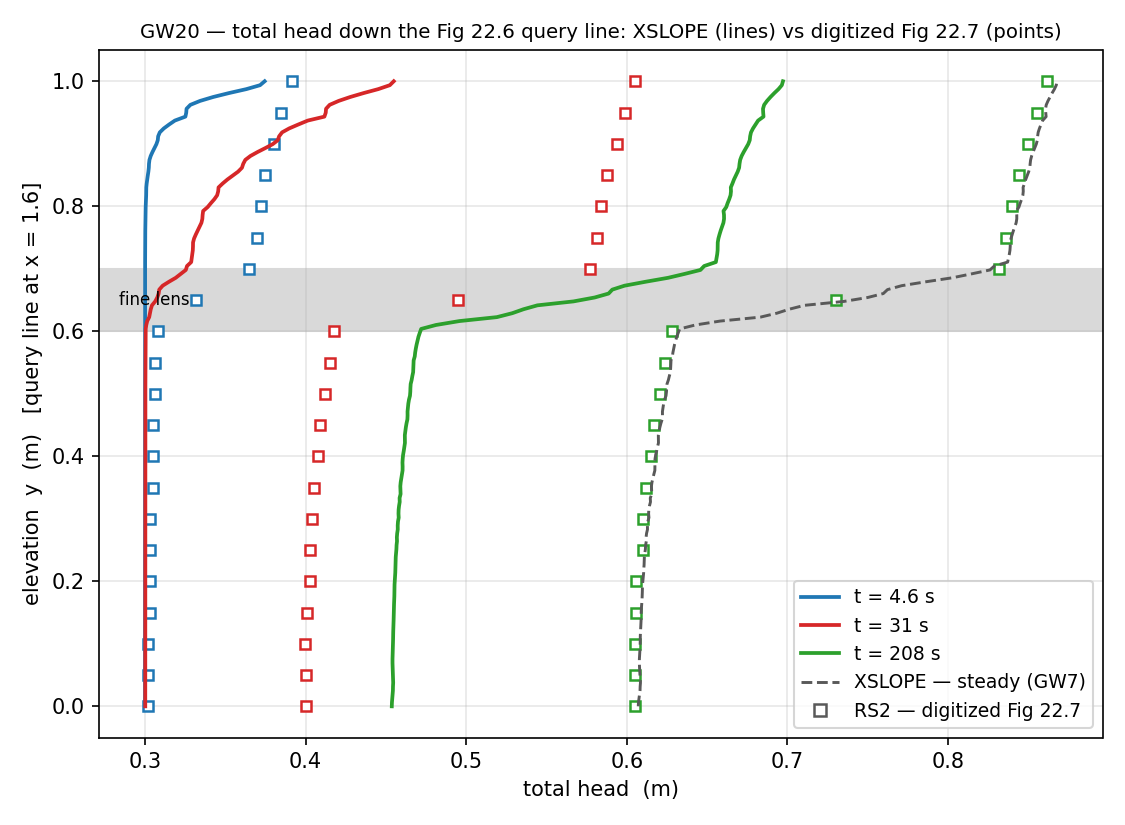
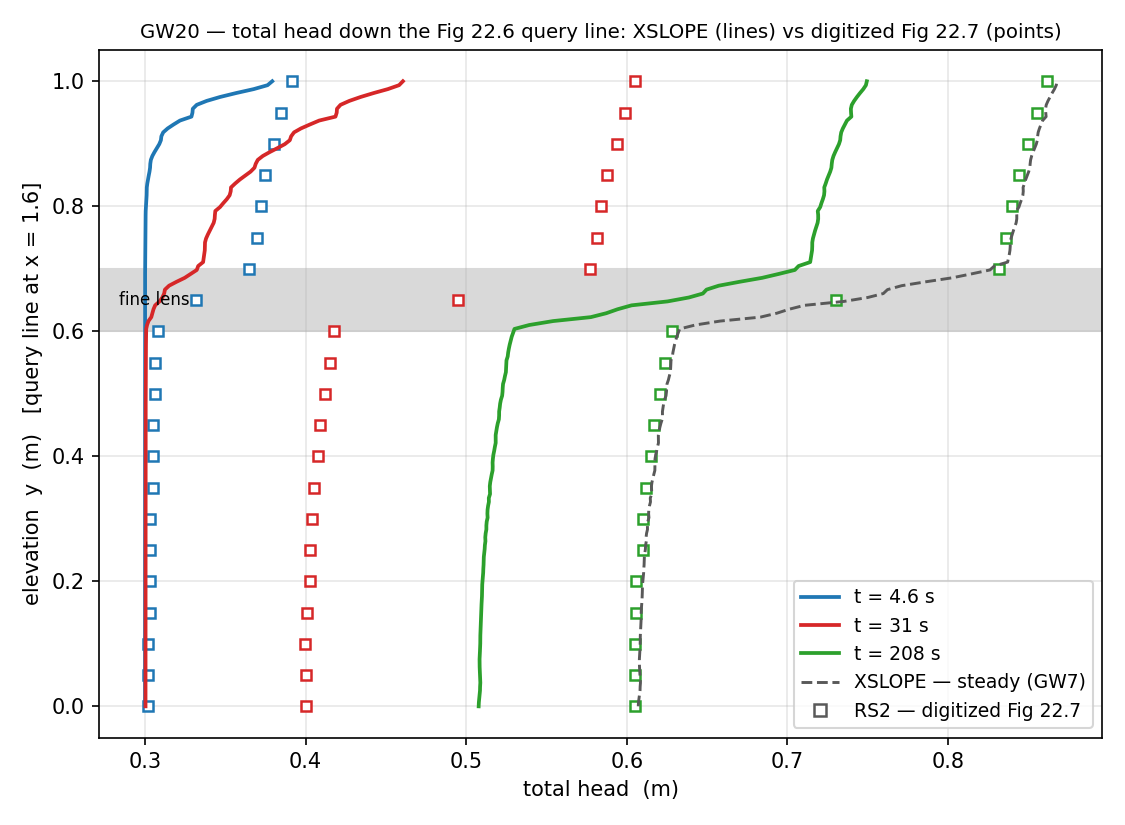
relock(gw): transient rows GW17-GW20 under saturated-only storage
Eleven locked values move; the rows they belong to are re-measured against their
vendor targets and the section prose rewritten to the measured state.

GW18 is the row the convention governs: its retention line is nearly flat over the
suction the dam reaches, so Ss (0.0196 /m) and the drainage capacity (7.4e-4 /m)
differ by a factor of 27 and the choice sets the drainage time-scale outright. The
19656 h toe-slope frame goes to 0.115 m rms / 0.187 m worst against digitized
Fig 20.5 over 11 stations, inside the ~0.2 m the chart reads to, with the 0.6 h
frame and the steady profile unchanged. The row's dot goes red -> green.

GW17 (toe-drain dam) tracks the same way: 16383 h station heads 6.54/6.92/4.37/3.22
against a steady 7.20/7.52/5.84/4.40, settling to 0.01 m of steady by ~5e4 h.

GW20 barely moves (208 s frame 0.161 -> 0.105 m rms): its perched mound lives in the
unsaturated zone, where the retention capacity always governed and Ss never entered.
The residual there is the retention SHAPE, not the convention, and the section now
says so.

GW19's early frames move the other way — its mound now runs ahead of RS2's rather
than behind (0.62/0.47/0.27 m rms at 73/416/792 min), and the locked near-steady
frame goes 0.060 -> 0.089 m rms. Its single van Genuchten pair has to carry both the
conductivity and the retention curve, so the capacity that paces the filling follows
the wrong curve's shape; with no elastic term padding it, that model error is no
[…]

diff --git a/benchmarks/rocscience/make_gw_transient_figures.py b/benchmarks/rocscience/make_gw_transient_figures.py
@@ -237,8 +237,8 @@ def _toe_y(x):
 def fig_gw18():
     """Toe-slope total head vs x: XSLOPE (solid, dense sampling of the downstream
     face) against the digitized Fig 20.5 profile (markers), at the vendor's own two
-    stage times, plus XSLOPE's own steady profile (dashed) — which the vendor has
-    already reached at 19656 h and XSLOPE has not."""
+    stage times, plus XSLOPE's own steady profile (dashed) — which both codes have
+    essentially reached by 19656 h."""
     nodes, sol = _solve('gw018', 1.5, frac=0.25)
     xs = np.linspace(28.0, 52.0, 120)
     fig, ax = plt.subplots(figsize=(8.5, 5.5))

diff --git a/docs/verification/rocscience_groundwater.md b/docs/verification/rocscience_groundwater.md
@@ -64,8 +64,8 @@ conductivity table, never derived from its retention curve. Whether one van Genu
 also carry the retention curve depends on the two ranges: [GW18](#gw18)'s retention line runs
 to 4000 kPa, a hundred times its conductivity scale, so it is carried separately through the
 Gardner option's independent drainage band; on 17, 19 and 20 the two ranges are the same
-order and one pair carries both, which shifts transient *timing* by a measured factor of two
-to four while leaving the steady field unchanged.
+order and one pair carries both, which shifts transient *timing* — up to a measured factor of
+two on 20 — while leaving the steady field unchanged.
 
 The transient problems compare the head and pressure field as it evolves, not a factor of safety: a
 transient head field does not change an FS on its own (rainfall-triggered failure would
@@ -124,10 +124,10 @@ used across this section (**built**, *covered*, *partial*, *planned*, *blocked*,
 | [14](#gw14) | <span class="nodata">⊘</span> | Unsaturated soil column | | *blocked* — the closed form assumes an exponential conductivity law XSLOPE does not implement |
 | [15](#gw15) | 🟢 | 1-D consolidation, uniform initial excess pore pressure | Isochrones within ≈0.3% of u₀ of the Terzaghi Eq 17.3 closed form | **built** (both cases) |
 | [16](#gw16) | 🟢 | Pore pressure dissipation of stratified soil | Within ≈0.3–0.5% of u₀ of the recomputed Pyrah 1996 two-layer eigen-series | **built** (3 cases) |
-| [17](#gw17) | <span class="nodata">⊘</span> | Transient seepage, earth fill dam with toe drain | At 15 h XSLOPE's *h* = 7 front stands 1.1–1.8 m inside the upstream face against RS2's 1.5–3.3 m · the steady field reproduces the Fig 19-5 total-head contours — reservoir 10 → drain 0, phreatic drawn to the toe — but XSLOPE reaches it at ≈2×10⁵ h where RS2 is there at 16383 h | **built** (both vendor stage times + steady); contour-only target, locked as a regression guard |
-| [18](#gw18) | 🔴 | Transient seepage through an earth fill dam | Toe-slope total head at t = 0.6 h within 0.072 m rms / 0.106 m worst of the digitized Fig 20.5 profile over 11 stations · XSLOPE's steady profile within 0.074 m rms / 0.122 m worst of Fig 20.5's 19656 h curve · but at that same 19656 h XSLOPE is still 0.424 m rms / 0.618 m short of it | **built** (both vendor stage times + steady); the late-frame gap is a drainage time-scale about 3× longer, traced by measurement to the elastic *S*<sub>s</sub> being applied above the phreatic surface |
-| [19](#gw19) | 🟢 | Transient seepage below a lagoon | Near-steady (11340 min) pressure head along the top boundary within 0.060 m rms / 0.176 m worst of the digitized Fig 21.9 markers over 20 stations — ≈1% of the driving head · early frames 0.23–0.34 m rms, XSLOPE's mound narrower and *behind* RS2's | **built** (all four frames); the near-steady frame is locked against the vendor profile, the early frames carry a measured timing shift |
-| [20](#gw20) | <span class="nodata">⊘</span> | Transient seepage in a layered slope | RS2 reaches the steady query-line profile of Fig 22.7 by 208 s and XSLOPE by 400 s: the two differ by 0.161 m rms along the line at 208 s and by 0.005 m once both are steady · XSLOPE's own solved heads at 4.6 / 31 / 208 s are locked as a regression guard | **built** (all three frames); the vendor-facing lock for this geometry is [GW7](#gw7)'s steady profile, and the transient frames carry a measured ≈2× timing offset |
+| [17](#gw17) | <span class="nodata">⊘</span> | Transient seepage, earth fill dam with toe drain | At 15 h XSLOPE's *h* = 7 front stands 1.1–1.8 m inside the upstream face against RS2's 1.5–3.3 m · the steady field reproduces the Fig 19-5 total-head contours — reservoir 10 → drain 0, phreatic drawn to the toe — and at 16383 h, where RS2 is essentially steady, XSLOPE's station heads read 6.54 / 6.92 / 4.37 / 3.22 against a steady 7.20 / 7.52 / 5.84 / 4.40, settling to within 0.01 m of it by ≈5×10⁴ h | **built** (both vendor stage times + steady); contour-only target, locked as a regression guard |
+| [18](#gw18) | 🟢 | Transient seepage through an earth fill dam | Toe-slope total head within 0.072 m rms / 0.106 m worst of the digitized Fig 20.5 profile at t = 0.6 h and 0.115 m rms / 0.187 m worst at t = 19656 h, over 11 stations — both inside the ≈0.2 m the chart can be read to · XSLOPE's steady profile within 0.074 m rms / 0.122 m worst of Fig 20.5's 19656 h curve | **built** (both vendor stage times + steady); the elastic *S*<sub>s</sub> acts in the saturated zone only, as Slide's *m*<sub>v</sub> does — the term that sets the drainage time-scale of every transient row here |
+| [19](#gw19) | 🟢 | Transient seepage below a lagoon | Near-steady (11340 min) pressure head along the top boundary within 0.089 m rms / 0.203 m worst of the digitized Fig 21.9 markers over 20 stations — under 2% of the driving head · early frames 0.27–0.62 m rms, XSLOPE's mound running *ahead* of RS2's | **built** (all four frames); the near-steady frame is locked against the vendor profile, the early frames carry a measured timing shift from the single van Genuchten pair that has to carry both vendor curves |
+| [20](#gw20) | <span class="nodata">⊘</span> | Transient seepage in a layered slope | RS2 reaches the steady query-line profile of Fig 22.7 by 208 s and XSLOPE by 400 s: the two differ by 0.105 m rms along the line at 208 s and by 0.005 m once both are steady · XSLOPE's own solved heads at 4.6 / 31 / 208 s are locked as a regression guard | **built** (all three frames); the vendor-facing lock for this geometry is [GW7](#gw7)'s steady profile, and the transient frames carry a measured ≈2× timing offset |
 | [21](#gw21) | 🟢 | Transient seepage through a fully confined aquifer | Within ≈0.02 ft of the Ferris erfc closed form at 600 hr | **built** (both cases) |
 
 </div>
@@ -865,10 +865,12 @@ $3.6\times10^{-4}$ m/hr.)
 **The late frame is a timing difference, not a field difference.** XSLOPE's steady
 total-head field reproduces Fig 19-5 exactly as described — reservoir head 10 drawn down
 through the dam to the toe drain at total head 0, phreatic surface descending to the drain
-— but it reaches that field at $\approx2\times10^{5}$ h where RS2 is essentially there at
-16383 h. At 16383 h XSLOPE's four station heads read 5.95 / 6.27 / 1.90 / 1.57 against a
-steady 7.20 / 7.52 / 5.84 / 4.40. [GW18](#gw18) shows the same lag, isolates it to a factor
-of about three, and measures its cause.
+— but it is not yet fully there at 16383 h, where RS2 essentially is. At 16383 h XSLOPE's
+four station heads read 6.54 / 6.92 / 4.37 / 3.22 against a steady 7.20 / 7.52 / 5.84 /
+4.40, and the field settles to within 0.01 m of steady by $\approx5\times10^{4}$ h. The two
+stations still furthest from steady sit between the crest and the toe drain, where the drain
+paces the last of the drawdown. [GW18](#gw18) measures the same approach against a
+digitized profile rather than contours.
 
 *Reading Fig 19-4: its colour ramp runs the opposite way to Fig 19-5's on the same page.
 At the toe drain, held at total head 0, Fig 19-4 is red where Fig 19-5 is blue; just inside
@@ -878,7 +880,7 @@ Fig 19-5's key, Fig 19-4 places the 15 h front at the wrong end of the dam.*
 ![gw017: steady total-head field vs Fig 19-5](images/gw017.png)
 
 <!-- test: file=files/rocscience_gw/gw017.xlsx, type=tseep_head, target_size=1.5, time=15, max_head_change_frac=0.25, points=26:4:2.068;26:8:2.128;32:10:1.486;36:8:1.004, tolerance=0.15, benchmark=GW17-t15 -->
-<!-- test: file=files/rocscience_gw/gw017.xlsx, type=tseep_head, target_size=1.5, time=16383, max_head_change_frac=0.25, points=26:4:5.947;26:8:6.265;32:10:1.902;36:8:1.573, tolerance=0.15, benchmark=GW17-t16383 -->
+<!-- test: file=files/rocscience_gw/gw017.xlsx, type=tseep_head, target_size=1.5, time=16383, max_head_change_frac=0.25, points=26:4:6.543;26:8:6.917;32:10:4.365;36:8:3.223, tolerance=0.15, benchmark=GW17-t16383 -->
 <!-- test: file=files/rocscience_gw/gw017.xlsx, type=tseep_head, target_size=1.5, time=200000, max_head_change_frac=0.25, points=26:4:7.199;26:8:7.517;32:10:5.838;36:8:4.402, tolerance=0.15, benchmark=GW17-tsteady -->
 
 ### GW18: Transient seepage through an earth fill dam {#gw18}
@@ -925,37 +927,38 @@ solved and locked as a third frame.
 | Fig 20.5, $t=0.6$ h | 2.887 | 2.775 | 2.687 | 2.560 | 2.448 | 2.323 | 2.177 | 2.047 | 1.882 | 1.680 | 1.406 |
 | XSLOPE, $t=0.6$ h | 2.840 | 2.750 | 2.606 | 2.492 | 2.378 | 2.217 | 2.092 | 1.968 | 1.785 | 1.617 | 1.386 |
 | Fig 20.5, $t=19656$ h | 8.330 | 8.001 | 7.639 | 7.238 | 6.794 | 6.286 | 5.683 | 4.970 | 4.019 | 3.014 | 2.009 |
-| XSLOPE, $t=19656$ h | 7.834 | 7.504 | 7.021 | 6.655 | 6.290 | 5.749 | 5.293 | 4.768 | 3.886 | 3.000 | 2.127 |
-| XSLOPE, steady | 8.250 | 7.961 | 7.525 | 7.175 | 6.793 | 6.187 | 5.656 | 5.019 | 3.929 | 3.000 | 2.131 |
+| XSLOPE, $t=19656$ h | 8.192 | 7.896 | 7.452 | 7.100 | 6.720 | 6.125 | 5.608 | 4.993 | 3.927 | 3.000 | 2.130 |
+| XSLOPE, steady | 8.250 | 7.962 | 7.525 | 7.176 | 6.793 | 6.188 | 5.657 | 5.019 | 3.929 | 3.000 | 2.131 |
 
 | frame | rms | worst |
 |---|---|---|
 | $t=0.6$ h vs Fig 20.5 at 0.6 h | 0.072 m | 0.106 m |
-| $t=19656$ h vs Fig 20.5 at 19656 h | 0.424 m | **0.618 m** |
+| $t=19656$ h vs Fig 20.5 at 19656 h | 0.115 m | **0.187 m** |
 | XSLOPE steady vs Fig 20.5 at 19656 h | 0.074 m | 0.122 m |
 
-**The two solutions agree on the steady profile and disagree on how long it takes to get
-there.** XSLOPE's steady toe-slope profile lands within 0.12 m of Fig 20.5's 19656 h curve
-at every station, but XSLOPE is only within 0.003 m of its own steady state by
-$\approx5\times10^{4}$ h where Slide is already there at 19656 h — a drainage time-scale
-about three times longer, on identical conductivity, storage and boundary conditions.
+**The two solutions agree on the steady profile and on the approach to it.** XSLOPE's
+steady toe-slope profile lands within 0.12 m of Fig 20.5's 19656 h curve at every station,
+and the 19656 h frame of the transient march itself is within 0.115 m rms / 0.187 m worst of
+that curve — below the ≈0.2 m the chart can be read to, so at the figure's own resolution the
+two codes are at the same place at the same time. By 19656 h XSLOPE has closed to 0.053 m rms
+of its own steady profile (it is within 0.003 m of it by $\approx3\times10^{4}$ h), which is
+the same "already steady" state Fig 20.5's 19656 h curve represents.
 
-The cause is measurable and specific: XSLOPE applies the elastic specific storage $S_s$
-everywhere, including above the phreatic surface, while Slide applies $m_v$ only in the
-saturated zone and takes the unsaturated capacity from the retention curve alone. On this
-problem those differ by a factor of 28 (0.0204 against $7.4\times10^{-4}\ \text{m}^{-1}$),
+The **storage convention** is what sets that timing, here and on every transient row of this
+page. XSLOPE applies the elastic specific storage $S_s$ in the saturated zone only and takes
+the storage above the phreatic surface from the retention curve alone — the same convention
+Slide and SEEP/W use. On this problem the two coefficients differ by a factor of about 27
+($S_s=0.0196$ against a retention capacity $S_y/|h_0| = 7.4\times10^{-4}\ \text{m}^{-1}$),
 because the vendor's retention line is nearly flat over the 0–12 m of suction the dam
-reaches. Re-running the same model with $S_s$ confined to the saturated zone takes the
-19656 h frame from 0.424 m rms / 0.618 m worst to **0.115 m rms / 0.187 m worst**, and
-leaves the 0.6 h frame unchanged — so the storage convention accounts for the whole late-frame
-gap. That is a solver-formulation difference between the two codes, recorded here rather
-than changed: the same term sets the timing of every transient row on this page.
+reaches, so which of the two acts above the water table governs the drainage time-scale
+outright. The 0.6 h frame is insensitive to it: that early, the raise has barely entered the
+fill and the response is saturated.
 
 ![gw018: toe-slope total head, XSLOPE vs digitized Fig 20.5](images/gw018.png)
 
 <!-- test: file=files/rocscience_gw/gw018.xlsx, type=tseep_head, target_size=1.5, time=0.6, max_head_change_frac=0.25, points=30:11:2.750;35:8.5:2.416;40:6:2.092;45:3.5:1.738, tolerance=0.15, benchmark=GW18-t0.6 -->
-<!-- test: file=files/rocscience_gw/gw018.xlsx, type=tseep_head, target_size=1.5, time=19656, max_head_change_frac=0.25, points=30:11:7.504;35:8.5:6.412;40:6:5.293;45:3.5:3.639, tolerance=0.15, benchmark=GW18-t19656 -->
-<!-- test: file=files/rocscience_gw/gw018.xlsx, type=tseep_head, target_size=1.5, time=60000, max_head_change_frac=0.25, points=30:11:7.961;35:8.5:6.922;40:6:5.656;45:3.5:3.656, tolerance=0.15, benchmark=GW18-tsteady -->
+<!-- test: file=files/rocscience_gw/gw018.xlsx, type=tseep_head, target_size=1.5, time=19656, max_head_change_frac=0.25, points=30:11:7.896;35:8.5:6.848;40:6:5.608;45:3.5:3.654, tolerance=0.15, benchmark=GW18-t19656 -->
+<!-- test: file=files/rocscience_gw/gw018.xlsx, type=tseep_head, target_size=1.5, time=60000, max_head_change_frac=0.25, points=30:11:7.962;35:8.5:6.923;40:6:5.657;45:3.5:3.656, tolerance=0.15, benchmark=GW18-tsteady -->
 
 ### GW19: Transient seepage below a lagoon {#gw19}
 
@@ -988,35 +991,39 @@ exactly the initial water table 5 m below the top boundary, and the lagoon marke
 for [GW18](#gw18).
 
 **The near-steady frame.** Against RS2's own markers at 20 stations along the top boundary,
-XSLOPE's 11340 min profile agrees to **0.060 m rms and 0.176 m at worst** over a pressure-head
-range of more than 5 m — about 1% of the driving head, with the single largest deviation at
+XSLOPE's 11340 min profile agrees to **0.089 m rms and 0.203 m at worst** over a pressure-head
+range of more than 5 m — under 2% of the driving head, with the single largest deviation at
 *x* = 3 m, the first station off the lagoon edge. Five top-boundary stations of that frame are
 locked.
 
 | $x$ (m) | 3 | 6 | 10 | 14 | 19 |
 |---|---|---|---|---|---|
-| XSLOPE pressure head | −0.30 | −1.78 | −2.73 | −3.58 | −4.24 |
-| Fig 21.9 (RS2) | −0.48 (+0.18) | −1.79 (+0.00) | −2.76 (+0.04) | −3.57 (−0.00) | −4.18 (−0.06) |
+| XSLOPE pressure head | −0.28 | −1.72 | −2.65 | −3.50 | −4.17 |
+| Fig 21.9 (RS2) | −0.48 (+0.20) | −1.79 (+0.07) | −2.76 (+0.11) | −3.57 (+0.07) | −4.18 (+0.01) |
 
-**The early frames.** These do not track as closely — 0.23 / 0.34 / 0.28 m rms at 73 / 416 /
-792 min — and the disagreement has a definite shape: XSLOPE's mound sits *behind* RS2's,
-lower at every station from *x* = 4 m outward by up to 0.68 m, while running *higher* than
-RS2 at *x* = 3 m, the station nearest the lagoon. The mound is steeper and narrower early on
-rather than uniformly fast or uniformly slow. Both of this model's unsaturated curves come
-from the vendor's own tables — the Mualem–van Genuchten pair is fitted to its conductivity
-table, and $S_y=0.7-0.5=0.2$ is the drop across its water-content table — but a single
-$(\alpha, n)$ still has to carry both, so the moisture capacity follows the shape of the
-conductivity curve rather than the vendor's own retention line. The shift closes as the field
-approaches steady state, where the retention-curve shape drops out — hence the near-steady
-frame carrying the lock.
+**The early frames.** These do not track as closely — 0.62 / 0.47 / 0.27 m rms at 73 / 416 /
+792 min — and the disagreement has a definite shape and a definite sign: XSLOPE's mound runs
+*ahead* of RS2's, standing higher at every station, by up to 1.15 m at 73 min (at *x* = 3 m,
+the station nearest the lagoon) and by up to 0.77 and 0.59 m at 416 and 792 min. The lead
+closes monotonically as the field fills, from 0.62 m rms to 0.089 m by 11340 min.
+
+The rate the mound fills at is set by the moisture capacity, and this model cannot carry the
+vendor's own: both of its unsaturated curves come from the vendor's tables — the
+Mualem–van Genuchten pair is fitted to its conductivity table, and $S_y=0.7-0.5=0.2$ is the
+drop across its water-content table — but a single $(\alpha, n)$ has to carry both, so the
+capacity follows the shape of the *conductivity* curve rather than the vendor's retention
+line. Where [GW18](#gw18) can keep the two apart (its Gardner option reproduces the retention
+line exactly), this geometry's liner and soil both need the van Genuchten $k_r$ form, so the
+fit has to choose. The shape drops out as the field approaches steady state — hence the
+near-steady frame carrying the lock.
 
 ![gw019: pressure head along the top boundary as the lagoon fills](images/gw019.png)
 
-<!-- test: file=files/rocscience_gw/gw019.xlsx, type=tseep_head, target_size=0.8, time=73, max_head_change_frac=0.25, points=1:8:5.324;3:8:5.064;1:5:5.001, tolerance=0.15, benchmark=GW19-t73 -->
-<!-- test: file=files/rocscience_gw/gw019.xlsx, type=tseep_head, target_size=0.8, time=416, max_head_change_frac=0.25, points=1:8:7.533;3:8:6.576;1:5:5.547, tolerance=0.15, benchmark=GW19-t416 -->
-<!-- test: file=files/rocscience_gw/gw019.xlsx, type=tseep_head, target_size=0.8, time=792, max_head_change_frac=0.25, points=1:8:7.991;3:8:7.225;1:5:6.211, tolerance=0.15, benchmark=GW19-t792 -->
-<!-- test: file=files/rocscience_gw/gw019.xlsx, type=tseep_head, target_size=0.8, time=11340, max_head_change_frac=0.25, points=1:8:9.489;3:8:9.062;1:5:8.642, tolerance=0.15, benchmark=GW19-t11340 -->
-<!-- test: file=files/rocscience_gw/gw019.xlsx, type=tseep_head, target_size=0.8, time=11340, max_head_change_frac=0.25, points=3:10:9.698;6:10:8.217;10:10:7.275;14:10:6.422;19:10:5.763, tolerance=0.15, benchmark=GW19-top-t11340 -->
+<!-- test: file=files/rocscience_gw/gw019.xlsx, type=tseep_head, target_size=0.8, time=73, max_head_change_frac=0.25, points=1:8:6.858;3:8:5.694;1:5:5.092, tolerance=0.15, benchmark=GW19-t73 -->
+<!-- test: file=files/rocscience_gw/gw019.xlsx, type=tseep_head, target_size=0.8, time=416, max_head_change_frac=0.25, points=1:8:8.067;3:8:7.411;1:5:6.216, tolerance=0.15, benchmark=GW19-t416 -->
+<!-- test: file=files/rocscience_gw/gw019.xlsx, type=tseep_head, target_size=0.8, time=792, max_head_change_frac=0.25, points=1:8:8.337;3:8:7.723;1:5:6.694, tolerance=0.15, benchmark=GW19-t792 -->
+<!-- test: file=files/rocscience_gw/gw019.xlsx, type=tseep_head, target_size=0.8, time=11340, max_head_change_frac=0.25, points=1:8:9.526;3:8:9.107;1:5:8.700, tolerance=0.15, benchmark=GW19-t11340 -->
+<!-- test: file=files/rocscience_gw/gw019.xlsx, type=tseep_head, target_size=0.8, time=11340, max_head_change_frac=0.25, points=3:10:9.725;6:10:8.281;10:10:7.355;14:10:6.503;19:10:5.831, tolerance=0.15, benchmark=GW19-top-t11340 -->
 
 ### GW20: Transient seepage in a layered slope {#gw20}
 
@@ -1042,36 +1049,40 @@ plots RS2 and Ref [1] against depth along it at the three times. That chart has 
 companion but calibrates itself: its 4.6 s markers at the base of the line read 0.302–0.305
 against the model's initial total head of 0.300, so the digitization is good to ≈0.005 m.
 
-**RS2 is at steady state by 208 s; XSLOPE arrives around 800 s.** RS2's 208 s markers sit on
+**RS2 is at steady state by 208 s; XSLOPE arrives around 400 s.** RS2's 208 s markers sit on
 the steady field — XSLOPE's own steady solve of the identical slope ([GW7](#gw7)) reproduces
 them to 0.005 m rms over 21 stations, which is where GW7's numeric lock now comes from.
-XSLOPE's *transient* march is not there at 208 s: it is still 0.25 m rms below along the
-whole line. It reaches the profile between 400 s and 800 s and then holds it:
+XSLOPE's *transient* march is not quite there at 208 s: it is still 0.105 m rms below,
+uniformly along the whole line (0.096 to 0.126 m at every station). It reaches the profile by
+400 s and then holds it:
 
 | frame | rms Δ vs the Fig 22.7 RS2 markers | worst |
 |---|---|---|
-| $t$ = 4.6 s | 0.038 m | 0.073 m |
-| $t$ = 31 s | 0.158 m | 0.251 m |
-| $t$ = 208 s | 0.161 m | 0.185 m |
-| $t$ = 400 s | 0.003 m | 0.008 m |
+| $t$ = 4.6 s | 0.037 m | 0.073 m |
+| $t$ = 31 s | 0.155 m | 0.244 m |
+| $t$ = 208 s | 0.105 m | 0.126 m |
+| $t$ = 400 s | 0.004 m | 0.010 m |
 | $t$ = 800 s and beyond | 0.005 m | 0.011 m |
 
-So the end state is right and the approach to it is about twice as slow. Both unsaturated
-curves come from the vendor's own tables — the Mualem–van Genuchten pairs are fitted to its
-conductivity tables and $S_y=0.7-0.5=0.2$ is the drop across its water-content table — but a
-single $(\alpha, n)$ still has to carry both, so the moisture capacity follows the shape of
-the conductivity curve (which falls over ~1 m of suction here) rather than the vendor's own
+So the end state is right and the approach to it is roughly twice as slow. Unlike
+[GW18](#gw18), the residual here is not a storage-*convention* difference — the perching
+mechanism runs almost entirely in the unsaturated zone, where the retention capacity governs
+and the elastic $S_s$ never enters. It is the retention *shape*: both unsaturated curves come
+from the vendor's own tables — the Mualem–van Genuchten pairs are fitted to its conductivity
+tables and $S_y=0.7-0.5=0.2$ is the drop across its water-content table — but a single
+$(\alpha, n)$ has to carry both, so the moisture capacity follows the shape of the
+conductivity curve (which falls over ~1 m of suction here) rather than the vendor's own
 retention line (which falls over 10 m). That can change the rate at which the perched mound
-fills but not the state it fills to — which is exactly the shape of the measurement, 0.16 m
+fills but not the state it fills to — which is exactly the shape of the measurement, 0.11 m
 apart at 208 s and 0.005 m apart at steady state. XSLOPE's own solved heads at four interior
 stations are locked at the three published report times as a regression guard on the
 transient frames themselves; the vendor-facing lock for this geometry is GW7's.
 
 ![gw020: total head along the query line as rainfall perches on the lens](images/gw020.png)
 
-<!-- test: file=files/rocscience_gw/gw020.xlsx, type=tseep_head, target_size=0.04, time=4.6, max_head_change_frac=0.25, points=2.2:0.95:0.350;2:0.85:0.303;2:0.75:0.300;1.6:0.72:0.300, tolerance=0.15, benchmark=GW20-t4.6 -->
-<!-- test: file=files/rocscience_gw/gw020.xlsx, type=tseep_head, target_size=0.04, time=31, max_head_change_frac=0.25, points=2.2:0.95:0.481;2:0.85:0.399;2:0.75:0.361;1.6:0.72:0.329, tolerance=0.15, benchmark=GW20-t31 -->
-<!-- test: file=files/rocscience_gw/gw020.xlsx, type=tseep_head, target_size=0.04, time=208, max_head_change_frac=0.25, points=2.2:0.95:0.761;2:0.85:0.728;2:0.75:0.716;1.6:0.72:0.656, tolerance=0.15, benchmark=GW20-t208 -->
+<!-- test: file=files/rocscience_gw/gw020.xlsx, type=tseep_head, target_size=0.04, time=4.6, max_head_change_frac=0.25, points=2.2:0.95:0.357;2:0.85:0.305;2:0.75:0.300;1.6:0.72:0.300, tolerance=0.15, benchmark=GW20-t4.6 -->
+<!-- test: file=files/rocscience_gw/gw020.xlsx, type=tseep_head, target_size=0.04, time=31, max_head_change_frac=0.25, points=2.2:0.95:0.490;2:0.85:0.412;2:0.75:0.375;1.6:0.72:0.337, tolerance=0.15, benchmark=GW20-t31 -->
+<!-- test: file=files/rocscience_gw/gw020.xlsx, type=tseep_head, target_size=0.04, time=208, max_head_change_frac=0.25, points=2.2:0.95:0.809;2:0.85:0.780;2:0.75:0.768;1.6:0.72:0.715, tolerance=0.15, benchmark=GW20-t208 -->
 
 ### GW21: Transient flow in a fully confined aquifer {#gw21}
 
